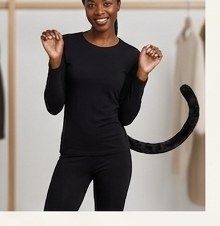
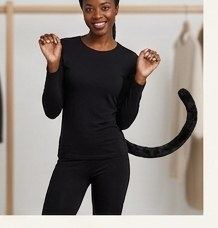
Re-crop Halloween previews; add festive-scene option
- Recrop all 7 Halloween previews from haloween.jpeg with pill-safe top
  margins — no more baked-in "PREVIEW" chip, faces stay in frame
- Try-on can now restyle the surroundings, not just the garment:
  - lib/outfits: optional per-item `scene`, SEASON_SCENES defaults, sceneFor()
  - /api/tryon: when `scene` is sent, the prompt replaces clothing AND
    background into one cohesive image; without it, the old
    background-preserving prompt is used
  - page: "Set the Halloween/Christmas scene" checkbox (on by default) that
    sends sceneFor(selectedOutfit)

diff --git a/app/page.tsx b/app/page.tsx
@@ -1,7 +1,7 @@
 'use client';
 
 import { useMemo, useRef, useState } from 'react';
-import { Category, OUTFITS, Season, categoriesInSeason, outfitsBySeason } from '@/lib/outfits';
+import { Category, OUTFITS, Season, categoriesInSeason, outfitsBySeason, sceneFor } from '@/lib/outfits';
 
 type Status = 'idle' | 'loading' | 'error' | 'done';
 type CategoryFilter = Category | 'all';
@@ -26,6 +26,7 @@ export default function Home() {
   const [resultUrl, setResultUrl] = useState<string | null>(null);
   const [status, setStatus] = useState<Status>('idle');
   const [errorMsg, setErrorMsg] = useState<string | null>(null);
+  const [festiveScene, setFestiveScene] = useState(true);
 
   const fileInputRef = useRef<HTMLInputElement>(null);
 
@@ -69,6 +70,7 @@ export default function Home() {
       const form = new FormData();
       form.append('photo', photoFile);
       form.append('outfitPrompt', selectedOutfit.prompt);
+      if (festiveScene) form.append('scene', sceneFor(selectedOutfit));
 
       const res = await fetch('/api/tryon', { method: 'POST', body: form });
       const data = await res.json();
@@ -161,6 +163,22 @@ export default function Home() {
               </button>
             ))}
           </div>
+
+          <label className="scene-toggle">
+            <input
+              type="checkbox"
+              checked={festiveScene}
+              onChange={(e) => setFestiveScene(e.target.checked)}
+            />
+            <span>
+              Set the {season === 'halloween' ? 'Halloween' : 'Christmas'} scene
+              <em>
+                {festiveScene
+                  ? ' — puts you in a matching backdrop'
+                  : ' — keeps your original background'}
+              </em>
+            </span>
+          </label>
 
           <div className="action-row">
             <button

diff --git a/app/api/tryon/route.ts b/app/api/tryon/route.ts
@@ -17,6 +17,8 @@ export async function POST(req: NextRequest) {
   const form = await req.formData();
   const photo = form.get('photo');
   const outfitPrompt = form.get('outfitPrompt');
+  const sceneRaw = form.get('scene');
+  const scene = typeof sceneRaw === 'string' && sceneRaw.trim() ? sceneRaw.trim() : null;
 
   if (!(photo instanceof File) || typeof outfitPrompt !== 'string') {
     return NextResponse.json({ error: 'Missing photo or outfitPrompt in request.' }, { status: 400 });
@@ -26,7 +28,12 @@ export async function POST(req: NextRequest) {
   const base64 = Buffer.from(bytes).toString('base64');
   const dataUrl = `data:${photo.type};base64,${base64}`;
 
-  const prompt = `Change the person's outfit to ${outfitPrompt}. Keep the person's face, pose, body proportions, and the background exactly the same. Only change the clothing. Make the new outfit look photorealistic and well-fitted, with natural lighting and shadows that match the original photo.`;
+  const prompt = scene
+    ? `Change the person's outfit to ${outfitPrompt}, and change the setting around them to ${scene}. ` +
+      `Keep the person's face, hairstyle, pose, and body proportions exactly the same. ` +
+      `Replace both the clothing and the background. Blend them into one cohesive photorealistic image, ` +
+      `with lighting, colour and shadows on the person consistent with the new setting.`
+    : `Change the person's outfit to ${outfitPrompt}. Keep the person's face, pose, body proportions, and the background exactly the same. Only change the clothing. Make the new outfit look photorealistic and well-fitted, with natural lighting and shadows that match the original photo.`;
 
   try {
     const createRes = await fetch(REPLICATE_API_URL, {

diff --git a/lib/outfits.ts b/lib/outfits.ts
@@ -27,6 +27,25 @@ export interface Outfit {
   preview?: string;
   /** Description fed to FLUX Kontext for the try-on and for preview generation. */
   prompt: string;
+  /**
+   * Optional per-item scene/backdrop. When the "festive scene" option is on,
+   * this (or the season default) is sent so the result is restyled into a
+   * matching setting instead of keeping the original background.
+   */
+  scene?: string;
+}
+
+/** Default backdrop per season, used when an outfit has no `scene` of its own. */
+export const SEASON_SCENES: Record<Season, string> = {
+  christmas:
+    'a cosy room decorated for Christmas — a decorated tree with warm fairy lights, garland and candles, soft golden bokeh in the background',
+  halloween:
+    'an atmospheric Halloween setting — dim warm light, carved jack-o-lanterns, cobwebs and flickering candles against a moody dark background'
+};
+
+/** The scene description to send for an outfit (per-item override, else season default). */
+export function sceneFor(outfit: Pick<Outfit, 'scene' | 'season'>): string {
+  return outfit.scene ?? SEASON_SCENES[outfit.season];
 }
 
 export const OUTFITS: Outfit[] = (catalog as Omit<Outfit, 'preview'>[]).map((o) => {

diff --git a/app/globals.css b/app/globals.css
@@ -271,9 +271,32 @@ button {
   font-weight: 500;
 }
 
+/* ---- Festive-scene toggle ---- */
+.scene-toggle {
+  display: flex;
+  align-items: flex-start;
+  gap: 8px;
+  margin-top: 24px;
+  font-size: 13px;
+  color: var(--paper);
+  cursor: pointer;
+  max-width: 42ch;
+}
+
+.scene-toggle input {
+  margin-top: 2px;
+  accent-color: var(--accent-a);
+  flex-shrink: 0;
+}
+
+.scene-toggle em {
+  font-style: normal;
+  color: var(--paper-dim);
+}
+
 /* ---- Action row ---- */
 .action-row {
-  margin-top: 28px;
+  margin-top: 16px;
   display: flex;
   align-items: center;
   gap: 16px;
